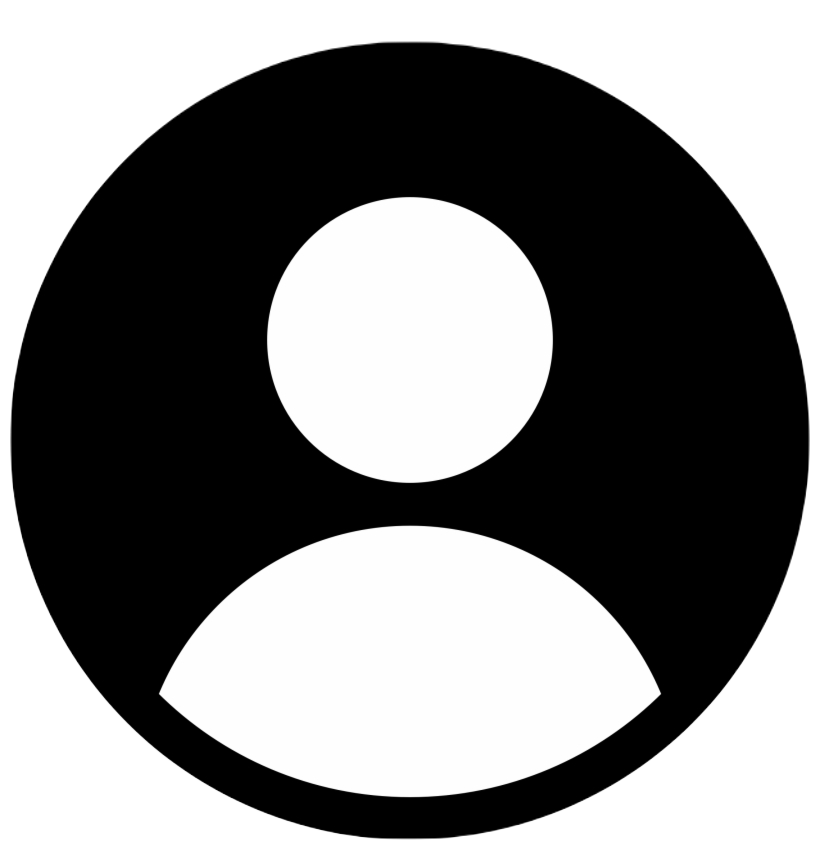
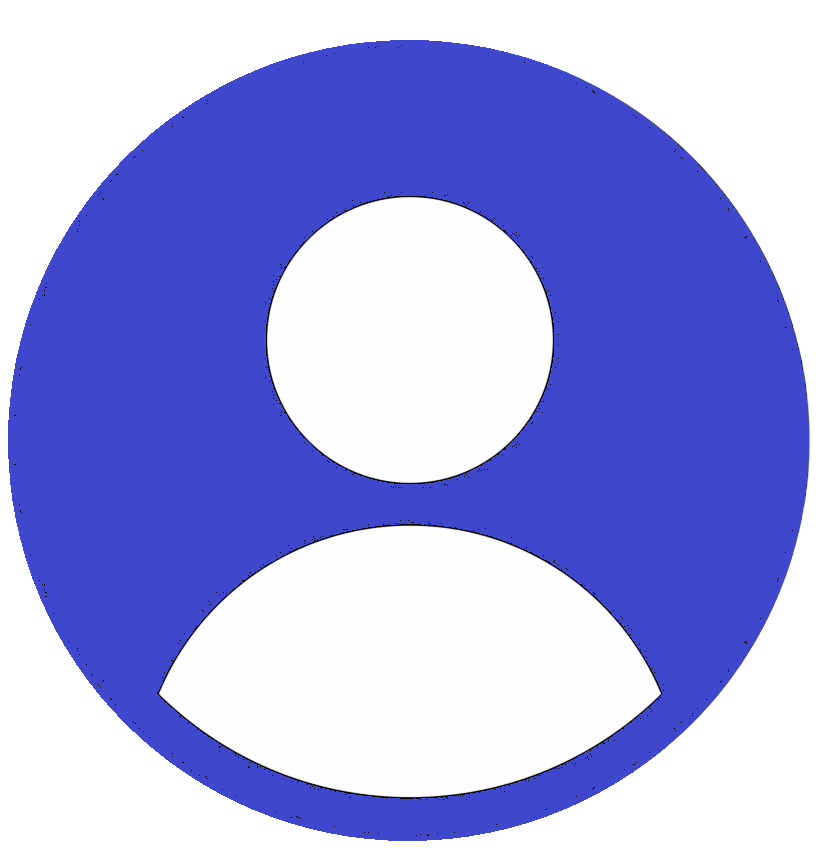
up

diff --git a/include/head.php b/include/head.php
@@ -109,7 +109,11 @@ if (isset($_GET['logout'])) {
                 </li>
                 <li class="nav-item dropdown">
                     <a class="nav-link dropdown-toggle" href="#" id="navbarDropdownMenuLink" role="button" data-bs-toggle="dropdown" aria-expanded="false">
-                        <img src="assets/images/profile1.png" alt="" class='profile-icon'>
+                        <?php if (isset($_SESSION['username'])) { ?>
+                            <img src="assets/images/profile2.png" alt="" class='profile-icon'>
+                        <?php } else { ?>
+                            <img src="assets/images/profile1.png" alt="" class='profile-icon'>
+                        <?php } ?>
                     </a>
                     <ul class="dropdown-menu dropdown-menu-end" aria-labelledby="navbarDropdownMenuLink">
                         <?php if (isset($_SESSION['username'])) { ?>
